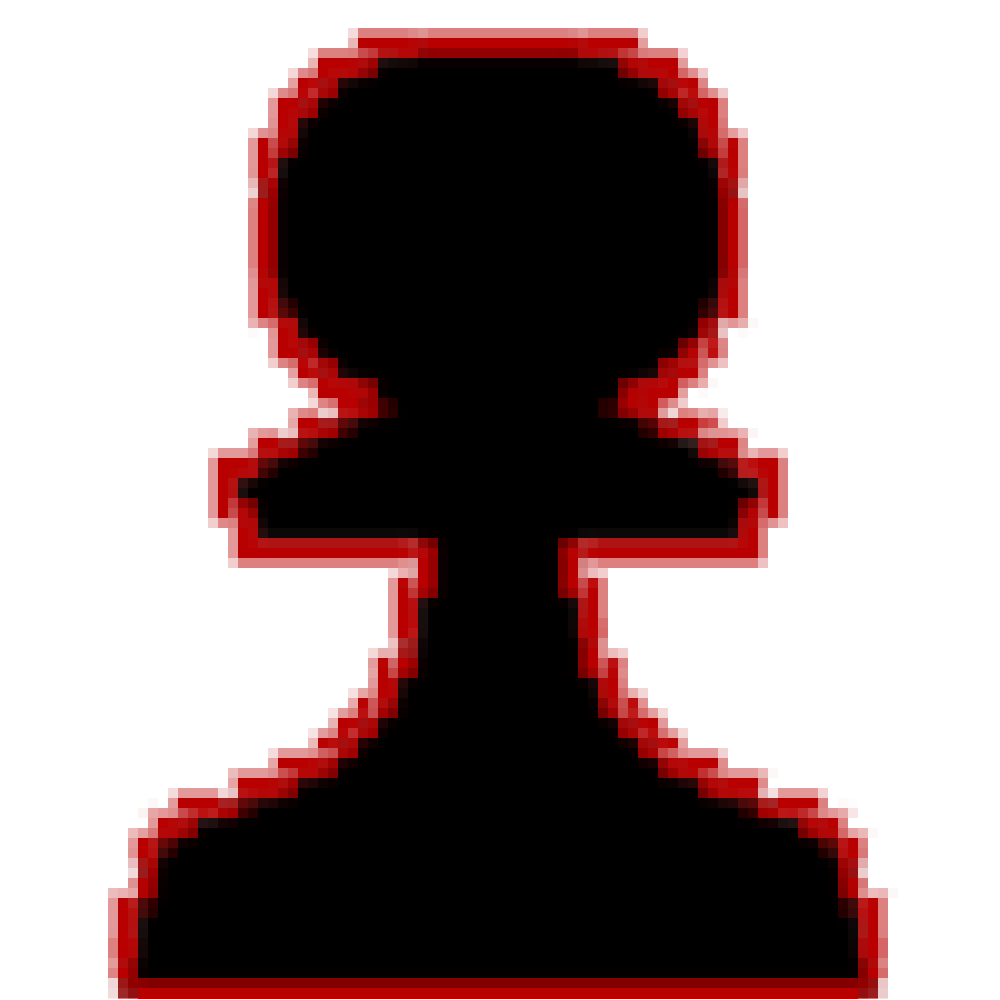
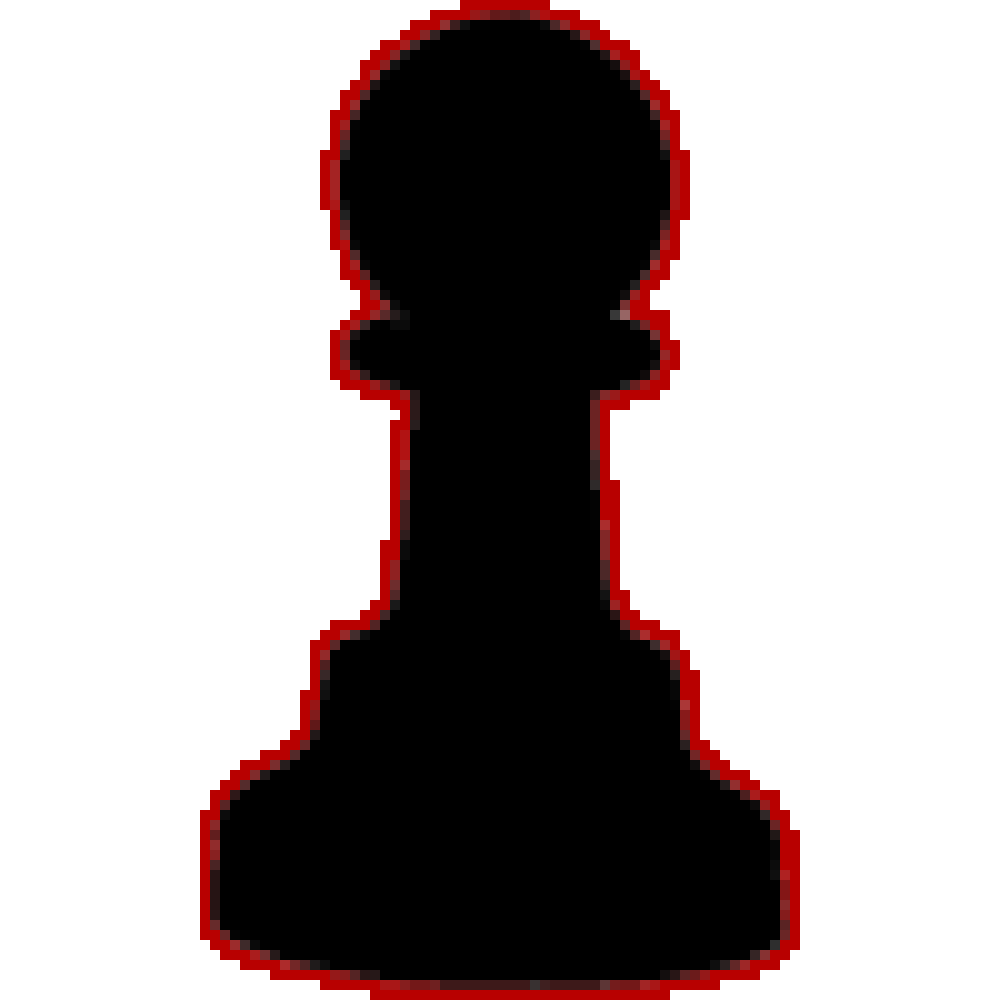
Added pieces pngs for all pieces

Changed region(s): [[0.093, 0.0, 0.899, 1.0]]

diff --git a/src/application/Main.java b/src/application/Main.java
@@ -342,13 +342,52 @@ public class Main extends Application {
 				try {
 					switch (game.squareInfo(r, c).getType()) {
 					case BISHOP:
-						// pieceBoard[r][c].text.setText("Bishop");
+						try {
+							switch (game.squareInfo(r, c).getColor()) {
+							case BLACK:
+								pieceBoard[r][c].imageView
+										.setImage(new Image(new FileInputStream("src/Black Bishop.png")));
+								break;
+							case WHITE:
+								pieceBoard[r][c].imageView
+										.setImage(new Image(new FileInputStream("src/White Bishop.png")));
+								break;
+							}
+						} catch (NullPointerException | FileNotFoundException ex) {
+
+						}
 						break;
 					case KING:
-						// pieceBoard[r][c].text.setText("King");
+						try {
+							switch (game.squareInfo(r, c).getColor()) {
+							case BLACK:
+								pieceBoard[r][c].imageView
+										.setImage(new Image(new FileInputStream("src/Black King.png")));
+								break;
+							case WHITE:
+								pieceBoard[r][c].imageView
+										.setImage(new Image(new FileInputStream("src/White King.png")));
+								break;
+							}
+						} catch (NullPointerException | FileNotFoundException ex) {
+
+						}
 						break;
 					case KNIGHT:
-						// pieceBoard[r][c].text.setText("Knight");
+						try {
+							switch (game.squareInfo(r, c).getColor()) {
+							case BLACK:
+								pieceBoard[r][c].imageView
+										.setImage(new Image(new FileInputStream("src/Black Knight.png")));
+								break;
+							case WHITE:
+								pieceBoard[r][c].imageView
+										.setImage(new Image(new FileInputStream("src/White Knight.png")));
+								break;
+							}
+						} catch (NullPointerException | FileNotFoundException ex) {
+
+						}
 						break;
 					case PAWN:
 
@@ -368,10 +407,36 @@ public class Main extends Application {
 						}
 						break;
 					case QUEEN:
-						// pieceBoard[r][c].text.setText("Queen");
+						try {
+							switch (game.squareInfo(r, c).getColor()) {
+							case BLACK:
+								pieceBoard[r][c].imageView
+										.setImage(new Image(new FileInputStream("src/Black Queen.png")));
+								break;
+							case WHITE:
+								pieceBoard[r][c].imageView
+										.setImage(new Image(new FileInputStream("src/White Queen.png")));
+								break;
+							}
+						} catch (NullPointerException | FileNotFoundException ex) {
+
+						}
 						break;
 					case ROOK:
-						// pieceBoard[r][c].text.setText("Rook");
+						try {
+							switch (game.squareInfo(r, c).getColor()) {
+							case BLACK:
+								pieceBoard[r][c].imageView
+										.setImage(new Image(new FileInputStream("src/Black Rook.png")));
+								break;
+							case WHITE:
+								pieceBoard[r][c].imageView
+										.setImage(new Image(new FileInputStream("src/White Rook.png")));
+								break;
+							}
+						} catch (NullPointerException | FileNotFoundException ex) {
+
+						}
 						break;
 					default:
 						// pieceBoard[r][c].text.setText("");
